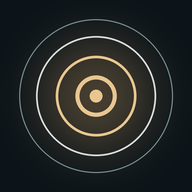
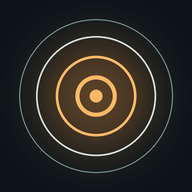
Brighter copper accent

diff --git a/index.html b/index.html
@@ -26,8 +26,8 @@
   --line:#253740;
   --mist:#d3dedc;
   --dim:#8a9ea0;
-  --candle:#e9c690;
-  --candle-soft:rgba(233,198,144,.12);
+  --candle:#ffb867;
+  --candle-soft:rgba(255,184,103,.18);
   --display:'Cormorant Garamond', Georgia, 'Times New Roman', serif;
   --ui:'Jost', system-ui, -apple-system, 'Segoe UI', sans-serif;
 }
@@ -59,7 +59,7 @@ h1{font-family:var(--display);font-weight:300;font-style:italic;font-size:2.4rem
   border:1px solid var(--candle);background:var(--candle-soft);color:var(--candle);
   display:grid;place-items:center;cursor:pointer;transition:background .6s, transform .3s;
 }
-.play:hover{background:rgba(233,198,144,.2)}
+.play:hover{background:rgba(255,184,103,.28)}
 .play:active{transform:scale(.96)}
 .play svg{width:26px;height:26px}
 .playlabel{font-size:.78rem;letter-spacing:.14em;text-transform:uppercase;color:var(--dim);margin-top:-10px}
@@ -83,7 +83,7 @@ h3{font-family:var(--display);font-style:italic;font-weight:300;font-size:1.15re
 .sound b{font-family:var(--display);font-weight:400;font-size:1.3rem;line-height:1.1}
 .sound span{color:var(--dim);font-size:.8rem;line-height:1.4}
 .sound{position:relative}
-.sound[aria-pressed="true"]{border-color:var(--candle);background:linear-gradient(var(--candle-soft),var(--candle-soft)),var(--surface);box-shadow:0 0 18px rgba(233,198,144,.16)}
+.sound[aria-pressed="true"]{border-color:var(--candle);background:linear-gradient(var(--candle-soft),var(--candle-soft)),var(--surface);box-shadow:0 0 22px rgba(255,184,103,.26)}
 .sound[aria-pressed="true"] svg{color:var(--candle)}
 .sound[aria-pressed="true"] b{color:var(--candle)}
 .sound .tag{position:absolute;top:13px;right:13px;display:none;align-items:center;gap:6px;font-size:.66rem;letter-spacing:.14em;text-transform:uppercase;color:var(--candle);font-style:normal}
@@ -92,12 +92,12 @@ h3{font-family:var(--display);font-style:italic;font-weight:300;font-size:1.15re
 .is-playing .sound[aria-pressed="true"] .tag{display:flex}
 .is-playing .sound[aria-pressed="true"] .tag::before{animation:beat 6s ease-in-out infinite}
 @keyframes glow{
-  0%,100%{box-shadow:0 0 0 1px var(--candle),0 0 14px rgba(233,198,144,.16)}
-  50%{box-shadow:0 0 0 1px var(--candle),0 0 36px rgba(233,198,144,.42)}
+  0%,100%{box-shadow:0 0 0 1px var(--candle),0 0 16px rgba(255,184,103,.26)}
+  50%{box-shadow:0 0 0 1px var(--candle),0 0 42px rgba(255,184,103,.6)}
 }
 @keyframes beat{0%,100%{opacity:.45}50%{opacity:1}}
 @media (prefers-reduced-motion: reduce){
-  .is-playing .sound[aria-pressed="true"]{animation:none;box-shadow:0 0 0 1px var(--candle),0 0 28px rgba(233,198,144,.32)}
+  .is-playing .sound[aria-pressed="true"]{animation:none;box-shadow:0 0 0 1px var(--candle),0 0 32px rgba(255,184,103,.45)}
   .is-playing .sound[aria-pressed="true"] .tag::before{animation:none}
 }
 
@@ -776,8 +776,8 @@ function paint(breath, progress){
   const w = cv.width, c = w/2, R = c - 4*(devicePixelRatio||1);
   g2.clearRect(0,0,w,w);
   const gr = g2.createRadialGradient(c,c,0,c,c,R*.95);
-  gr.addColorStop(0, rgba(C.candle, .08 + .1*breath));
-  gr.addColorStop(.55, rgba(C.candle, .03 + .03*breath));
+  gr.addColorStop(0, rgba(C.candle, .12 + .14*breath));
+  gr.addColorStop(.55, rgba(C.candle, .05 + .05*breath));
   gr.addColorStop(1, rgba(C.candle, 0));
   g2.fillStyle = gr; g2.beginPath(); g2.arc(c,c,R,0,Math.PI*2); g2.fill();
   if(S && !reduce.matches){
@@ -787,7 +787,7 @@ function paint(breath, progress){
       if(ct < e.at) continue;
       const life = e.kind === 'deep' ? 14 : 9, p = (ct - e.at)/life;
       const r = R*.12 + R*.8*(1 - Math.pow(1-p, 2.2));
-      const a = Math.pow(1-p, 1.6)*(e.kind === 'piano' ? .4 : .55);
+      const a = Math.pow(1-p, 1.6)*(e.kind === 'piano' ? .4 : .75);
       g2.strokeStyle = rgba(e.kind === 'piano' ? C.mist : C.candle, a);
       g2.lineWidth = (e.kind === 'deep' ? 2.2 : 1.1)*(devicePixelRatio||1);
       g2.beginPath(); g2.arc(c,c,r,0,Math.PI*2); g2.stroke();
@@ -796,7 +796,7 @@ function paint(breath, progress){
   g2.lineWidth = 1.5*(devicePixelRatio||1);
   g2.strokeStyle = C.line; g2.beginPath(); g2.arc(c,c,R,0,Math.PI*2); g2.stroke();
   if(progress > 0){
-    g2.strokeStyle = rgba(C.candle, .8); g2.beginPath();
+    g2.strokeStyle = rgba(C.candle, 1); g2.beginPath();
     g2.arc(c,c,R,-Math.PI/2,-Math.PI/2 + Math.PI*2*progress); g2.stroke();
   }
 }

diff --git a/sw.js b/sw.js
@@ -1,5 +1,5 @@
 /* Slow Hours: offline support. Built by build.py; version changes with the content. */
-const CACHE = "slowhours-8fec5e1c5e", FONTS = "slowhours-fonts";
+const CACHE = "slowhours-15c7167313", FONTS = "slowhours-fonts";
 const SHELL = ["./", "index.html", "manifest.webmanifest", "icons/apple-touch-icon.png", "icons/icon-192.png", "icons/icon-512.png", "icons/icon-maskable-512.png"];
 self.addEventListener("install", e => { e.waitUntil(caches.open(CACHE).then(c => c.addAll(SHELL)).then(() => self.skipWaiting())); });
 self.addEventListener("activate", e => {
